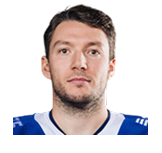
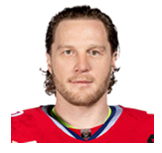
Update Lokomotiv photos and Radulov rating

diff --git a/src/data/lokomotivPlayers.js b/src/data/lokomotivPlayers.js
@@ -41,16 +41,16 @@ const lokomotivRoster = [
   ["nikulin", "Степан", "Никулин", "ЛНП", [], photo("nikulin"), "2001-03-17", "Россия", 5, 205, 100, 69, 78, 75, 70, 75, 76, "односторонний", [2]],
   ["panik", "Рихард", "Паник", "ПНП", ["ЛНП"], photo("panik"), "1991-02-07", "Словакия", 2, 67, 100, 74, 80, 76, 73, 77, 79, "односторонний", [45]],
   ["polunin", "Александр", "Полунин", "ЛНП", ["ЦТР"], photo("polunin"), "1997-05-25", "Россия", 11, 563, 100, 73, 77, 77, 78, 75, 78, "односторонний", [40]],
-  ["radulov", "Александр", "Радулов", "ПНП", [], DEFAULT_PHOTO, "1986-07-05", "Россия", 12, 635, 100, 81, 75, 80, 70, 88, 82, "односторонний", [39, 60]],
-  ["rafikov", "Рушан", "Рафиков", "ЗАЩ", [], DEFAULT_PHOTO, "1995-05-15", "Россия", 11, 589, 100, 73, 78, 78, 79, 78, 80, "односторонний", [56, 56]],
-  ["sergeyev", "Андрей", "Сергеев", "ЗАЩ", [], photo("andrei-sergeyev"), "1991-03-26", "Россия", 17, 785, 100, 71, 77, 81, 81, 74, 80, "односторонний", [60, 57, 60]],
-  ["surin", "Егор", "Сурин", "ЛНП", ["ПНП"], DEFAULT_PHOTO, "2006-08-01", "Россия", 3, 101, 100, 70, 74, 82, 75, 78, 85, "двухсторонний", [40, 60]],
-  ["ulyev", "Марк", "Ульев", "ЗАЩ", [], DEFAULT_PHOTO, "2005-02-06", "Россия", 3, 80, 100, 70, 72, 72, 72, 68, 78, "трехсторонний", [1, 1]],
-  ["froese", "Байрон", "Фрэз", "ЦТР", [], DEFAULT_PHOTO, "1991-03-12", "Канада", 2, 127, 100, 75, 76, 72, 78, 79, 77, "односторонний", [26]],
-  ["cherepanov", "Никита", "Черепанов", "ЗАЩ", [], DEFAULT_PHOTO, "1995-11-19", "Россия", 11, 575, 100, 70, 75, 77, 78, 73, 77, "односторонний", [32]],
-  ["shalunov", "Максим", "Шалунов", "ЦТР", [], DEFAULT_PHOTO, "1993-01-31", "Россия", 14, 644, 100, 80, 78, 77, 74, 78, 80, "односторонний", [55, 80, 80]],
-  ["pustovoy", "Андрей", "Пустовой", "ПНП", [], DEFAULT_PHOTO, "2008-12-08", "Россия", 0, 0, 100, 67, 72, 74, 66, 77, 83, "трехсторонний", [0.5, 0.5, 1]],
-  ["dudorov", "Вадим", "Дудоров", "ПНП", [], DEFAULT_PHOTO, "2006-07-21", "Россия", 1, 11, 100, 70, 74, 66, 66, 74, 80, "трехсторонний", [0.5]],
+  ["radulov", "Александр", "Радулов", "ПНП", [], photo("radulov"), "1986-07-05", "Россия", 12, 635, 100, 82, 76, 80, 72, 88, 82, "односторонний", [39, 60]],
+  ["rafikov", "Рушан", "Рафиков", "ЗАЩ", [], photo("rafikov"), "1995-05-15", "Россия", 11, 589, 100, 73, 78, 78, 79, 78, 80, "односторонний", [56, 56]],
+  ["andrei-sergeyev", "Андрей", "Сергеев", "ЗАЩ", [], photo("andrei-sergeyev"), "1991-03-26", "Россия", 17, 785, 100, 71, 77, 81, 81, 74, 80, "односторонний", [60, 57, 60]],
+  ["surin", "Егор", "Сурин", "ЛНП", ["ПНП"], photo("surin"), "2006-08-01", "Россия", 3, 101, 100, 70, 74, 82, 75, 78, 85, "двухсторонний", [40, 60]],
+  ["ulyev", "Марк", "Ульев", "ЗАЩ", [], photo("ulyev"), "2005-02-06", "Россия", 3, 80, 100, 70, 72, 72, 72, 68, 78, "трехсторонний", [1, 1]],
+  ["froese", "Байрон", "Фрэз", "ЦТР", [], photo("froese"), "1991-03-12", "Канада", 2, 127, 100, 75, 76, 72, 78, 79, 77, "односторонний", [26]],
+  ["cherepanov", "Никита", "Черепанов", "ЗАЩ", [], photo("cherepanov"), "1995-11-19", "Россия", 11, 575, 100, 70, 75, 77, 78, 73, 77, "односторонний", [32]],
+  ["shalunov", "Максим", "Шалунов", "ЦТР", [], photo("shalunov"), "1993-01-31", "Россия", 14, 644, 100, 80, 78, 77, 74, 78, 80, "односторонний", [55, 80, 80]],
+  ["pustovoy", "Андрей", "Пустовой", "ПНП", [], photo("pustovoy"), "2008-12-08", "Россия", 0, 0, 100, 67, 72, 74, 66, 77, 83, "трехсторонний", [0.5, 0.5, 1]],
+  ["dudorov", "Вадим", "Дудоров", "ПНП", [], photo("dudorov"), "2006-07-21", "Россия", 1, 11, 100, 70, 74, 66, 66, 74, 80, "трехсторонний", [0.5]],
 ];
 
 const toPosition = (label) => positionByLabel[label] || PlayerPosition.CTR;

diff --git a/sw.js b/sw.js
@@ -1,4 +1,4 @@
-const CACHE_NAME="khl-manager-v116";
+const CACHE_NAME="khl-manager-v117";
 const ASSETS=[
   "./",
   "./index.html",
@@ -331,7 +331,15 @@ const ASSETS=[
   "./player-photo/panik.png",
   "./player-photo/polunin.png",
   "./player-photo/andrei-sergeyev.png",
-  "./player-photo/placeholder.png",
+  "./player-photo/radulov.png",
+  "./player-photo/rafikov.png",
+  "./player-photo/shalunov.png",
+  "./player-photo/surin.png",
+  "./player-photo/ulyev.png",
+  "./player-photo/froese.png",
+  "./player-photo/cherepanov.png",
+  "./player-photo/pustovoy.png",
+  "./player-photo/dudorov.png",
   "./player-photo/default.png"
 ];
 self.addEventListener("install",e=>{self.skipWaiting();e.waitUntil(caches.open(CACHE_NAME).then(c=>c.addAll(ASSETS)))});
